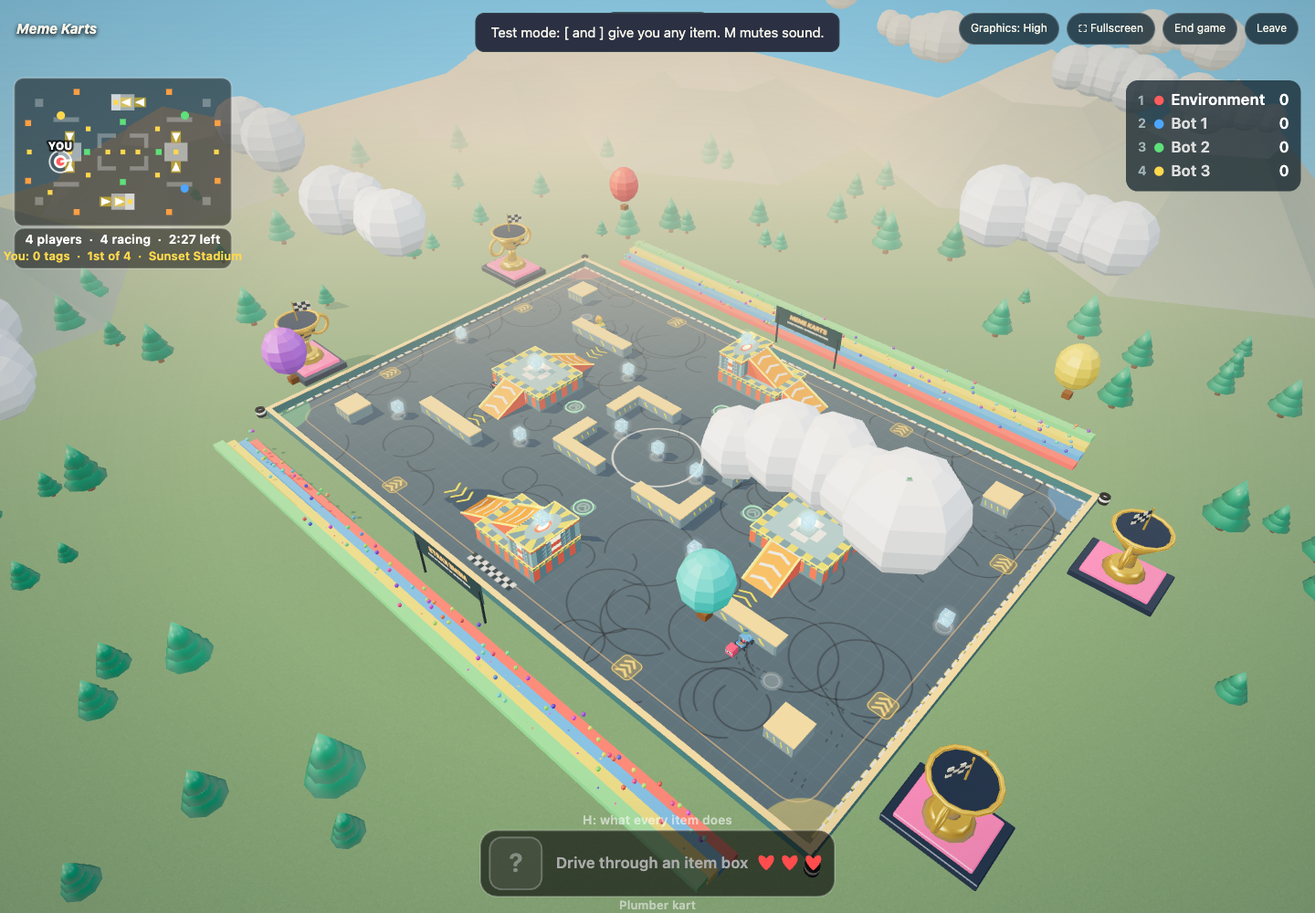
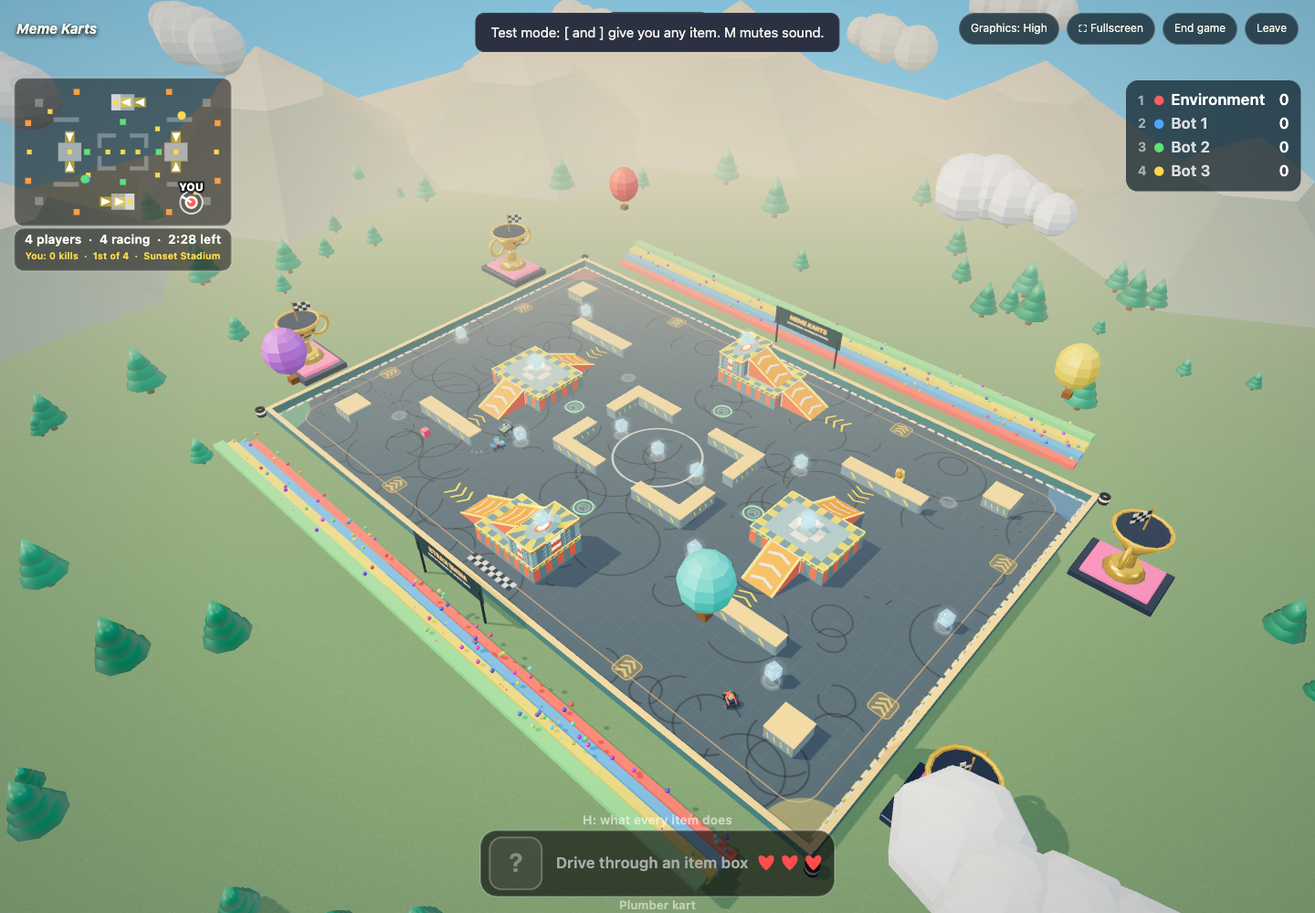
Settings in the Esc menu, clearer lobby, bigger menus on big screens, banana hurts, ramp seam fixed
- Esc menu in both games now has graphics and sound; the shooter's also has
  mouse sensitivity and field of view (window.FG_SETTINGS in gfx.js), and
  Settings (L) in the shooter uses the same panel.
- The lobby says plainly who the host is, what they do, that friends can join
  mid-game, and that the room ends if a peer-to-peer host closes the tab.
  Leaving as a host with friends present asks first.
- Lobby settings have a Reset to defaults button and list the defaults.
- Menu screens scale up on monitors 1600 px wide and over.
- A banana slip costs a heart (and counts as a kill for the owner).
- Minimap text in both games is centred in its box and shrinks to fit.
- Ramp side rails and corner posts no longer share the ramp's side plane,
  which flickered; ramp models are single-sided so their top end does not
  flicker against the deck wall.
- Peer-to-peer: friends are told at once when the host leaves; repeat names
  get a number; 16 player colours.

diff --git a/public/games/memekarts.js b/public/games/memekarts.js
@@ -27,7 +27,7 @@ registerGame('memekarts', (G) => {
   const WEAPON_INFO = {
     green: 'Fires straight ahead and bounces off walls.', triple: 'Three shells in a spread. They bounce off walls.', red: 'Homing shell. Chases the nearest kart.',
     blue: 'Flies over walls and hunts whoever has the most kills.', tnt: 'Drops behind you and explodes after 2 seconds.', bomb: 'Lobbed ahead. Blows up on contact or after a moment.',
-    pad: 'Placed under you. Launches any kart that drives over it.', egg: 'Three eggs. A hit turns a kart into a slow, helpless egg.', banana: 'Drops behind you. Karts that touch it spin out.',
+    pad: 'Placed under you. Launches any kart that drives over it.', egg: 'Three eggs. A hit turns a kart into a slow, helpless egg.', banana: 'Drops behind you. Karts that touch it spin out and lose a heart.',
     fake: 'Drops a fake item box. Whoever grabs it spins out.', fire: 'A quick burst of five bouncing fireballs.', gun: 'Sprays bullets ahead for two seconds.',
     mush: 'Speed boost. Ram other karts to hurt them.', star: 'Six seconds invincible and fast. Ramming wrecks karts.', boo: 'Untouchable for five seconds, and steals someone\'s item.',
     bolt: 'Shrinks and slows everyone else. May zap their items.', bill: 'Three seconds of autopilot rocket. Flattens karts in your path.', ink: 'Splats ink over everyone else\'s screen.',
@@ -48,7 +48,9 @@ registerGame('memekarts', (G) => {
     G.ui.innerHTML = `<div class="away-card"><h3>You stepped away</h3><p>You are still in this race. Nothing can hit you while you are away, and your kills are kept.</p>
       <div class="away-kart"><span style="background:${col}"></span><b>${VEHICLE_NAMES[k.v % 8]}</b></div>
       <div class="away-stats"><div><b>${k.kills}</b><small>kills</small></div><div><b>${rank}<small>/${order.length}</small></b><small>place</small></div><div><b>${Math.floor(s.t / 60)}:${String(s.t % 60).padStart(2, '0')}</b><small>left</small></div></div>
+      <h4 class="away-h">Settings</h4>${window.FG_SETTINGS ? window.FG_SETTINGS.html(false) : ''}
       <div class="away-btns"><button id="awayLeave">Leave the room</button><button id="awayBack" class="primary">Back to the race</button></div></div>`;
+    if (window.FG_SETTINGS) window.FG_SETTINGS.bind(G.ui);
     G.ui.querySelector('#awayBack').onclick = () => { away = 0; G.send({ type: 'away', on: 0 }); G.clearUI(); }; G.ui.querySelector('#awayLeave').onclick = () => { const q = document.querySelector('#quitBtn'); if (q) q.click(); };
   }
   function trigger(down) { if (away) return;
@@ -378,7 +380,7 @@ registerGame('memekarts', (G) => {
         const horiz = rp.dir === 'E' || rp.dir === 'W', len = horiz ? rp.w : rp.h, wid = horiz ? rp.h : rp.w, g = new THREE.Group();
         const [Z0, Z1] = window.MEMEKARTS_MAPS.rampZ(rp), RH = Z1 - Z0; /* this ramp's rise; a tower's second ramp starts on the first deck */
         const custom = asset(map.theme === 'neon' ? 'ramp_neon' : map.theme === 'canyon' ? 'ramp_canyon' : 'ramp', 60) || asset('ramp', 60); /* optional model: rises toward +X in Blender; stretched to the footprint */
-        if (custom) { const bb = new THREE.Box3().setFromObject(custom), sz = bb.getSize(new THREE.Vector3()); custom.scale.set(len / sz.x, RH / sz.y, wid / sz.z); custom.traverse((m) => { if (m.isMesh) m.material.side = THREE.DoubleSide; }); /* solid from every angle */
+        if (custom) { const bb = new THREE.Box3().setFromObject(custom), sz = bb.getSize(new THREE.Vector3()); custom.scale.set(len / sz.x, RH / sz.y, wid / sz.z); /* single-sided: the ramp's top end shares the deck wall's plane, and a double-sided end face flickered against it */
           custom.traverse((m) => { if (m.isMesh && /ink|dark|runway/i.test((m.material.name || '') + m.name)) m.material.color.set(map.theme === 'neon' ? '#ff3fd0' : '#ff8a1f'); }); /* the runway is painted a loud colour: a dark ramp reads as a floor marking */
           g.add(custom); }
         else {
@@ -396,8 +398,8 @@ registerGame('memekarts', (G) => {
         const dress = new THREE.Group(); /* decoration lives beside the ramp group so the ramp itself keeps its exact footprint */
         const hot = map.theme === 'neon' ? '#68efff' : '#ffd21f', tilt = Math.atan2(RH, len), slopeLen = Math.hypot(len, RH);
         for (const sd of [-1, 1]) {
-          const rail = box(slopeLen, 3.2, 3.2, glow(hot, 1.4), 0, RH / 2 + 2.2, sd * (wid / 2 - 1.6)); rail.rotation.z = tilt; rail.castShadow = false; dress.add(rail);
-          dress.add(box(3.2, RH, 3.2, M3('#f4f4f4'), len / 2 - 1.6, RH / 2, sd * (wid / 2 - 1.6)));
+          const rail = box(slopeLen, 3.2, 3.2, glow(hot, 1.4), 0, RH / 2 + 2.2, sd * (wid / 2 - 1.1)); /* rails and posts stand 0.5 proud of the ramp's side wall: flush with it they flickered */ rail.rotation.z = tilt; rail.castShadow = false; dress.add(rail);
+          dress.add(box(3.2, RH - 0.4, 3.2, M3('#f4f4f4'), len / 2 - 2.5, RH / 2 - 0.2, sd * (wid / 2 - 1.1))); /* corner posts: clear of the deck wall, the side wall and the deck top */
         }
         const lead = tex(256, 128, (c, cw, ch) => { c.clearRect(0, 0, cw, ch); c.strokeStyle = '#ffffff'; c.lineWidth = 16; c.lineCap = 'round'; c.lineJoin = 'round'; for (const x of [40, 110, 180]) { c.beginPath(); c.moveTo(x - 16, 22); c.lineTo(x + 22, 64); c.lineTo(x - 16, 106); c.stroke(); } });
         const runway = mesh(new THREE.PlaneGeometry(90, wid * 0.8), new THREE.MeshBasicMaterial({ map: lead, transparent: true, depthWrite: false, color: new THREE.Color(hot).multiplyScalar(1.5) }), -len / 2 - 50, 0.8, 0); runway.rotation.x = -Math.PI / 2; runway.castShadow = false;
@@ -852,11 +854,13 @@ registerGame('memekarts', (G) => {
     s.boxes.forEach((on, i) => { if (on) { ctx.fillStyle = '#ffd84d'; ctx.fillRect(mx + BOXES[i][0] * ms - 2, my + BOXES[i][1] * ms - 2, 4, 4); } });
     for (const e of s.ents) if (e.k === 'blue' || e.k === 'red') G.circle(mx + e.x * ms, my + e.y * ms, 2, e.k === 'blue' ? '#6ea0ff' : '#ff6a6a');
     for (const k of s.karts) { if (k.dead || k.aw || (k.ghost && k.id !== G.me)) continue; const p = G.player(k.id), x = mx + k.x * ms, y = my + k.y * ms; G.circle(x, y, k.id === G.me ? 4.5 : 3.5, p.color, k.id === G.me ? '#fff' : null); if (k.id === G.me) { ctx.beginPath(); ctx.moveTo(x, y); ctx.lineTo(x + Math.cos(k.a) * 10, y + Math.sin(k.a) * 10); ctx.strokeStyle = '#fff'; ctx.lineWidth = 2; ctx.stroke(); ctx.beginPath(); ctx.arc(x, y, 8 + Math.sin(time * 5) * 1.5, 0, 7); ctx.strokeStyle = 'rgba(255,255,255,.8)'; ctx.lineWidth = 1.5; ctx.stroke(); G.text('YOU', x, y - 13, { size: 9, weight: 800, color: '#fff' }); } }
-    { /* who is in, who is still racing, where you stand */
-      const total = s.karts.length, racing = s.karts.filter((k) => !k.dead).length, order = s.karts.slice().sort((a, b) => b.kills - a.kills), rank = order.findIndex((k) => k.id === G.me) + 1, iy = my + MH * ms + 16;
-      rr(mx - 4, iy - 10, MW * ms + 8, 34, 8, 'rgba(0,0,0,.5)', 'rgba(255,255,255,.2)');
-      G.text(`${total} players  ·  ${racing} racing  ·  ${Math.floor(s.t / 60)}:${String(s.t % 60).padStart(2, '0')} left`, mx + (MW * ms) / 2, iy, { size: 10.5, color: '#fff', stroke: false });
-      if (me) G.text(`You: ${me.kills} tags  ·  ${rank ? rank + (rank === 1 ? 'st' : rank === 2 ? 'nd' : rank === 3 ? 'rd' : 'th') + ' of ' + total : ''}  ·  ${map.name}`, mx + (MW * ms) / 2, iy + 14, { size: 10, color: '#ffd84d', stroke: false });
+    { /* who is in, who is still racing, where you stand: sized to fit inside the box, kart words not shooter words */
+      const total = s.karts.length, racing = s.karts.filter((k) => !k.dead && !k.aw).length, order = s.karts.slice().sort((a, b) => b.kills - a.kills), rank = order.findIndex((k) => k.id === G.me) + 1, iy = my + MH * ms + 16, bw = MW * ms + 8;
+      rr(mx - 4, iy - 10, bw, 36, 8, 'rgba(0,0,0,.5)', 'rgba(255,255,255,.2)');
+      const fit = (t, size) => { ctx.font = `700 ${size}px system-ui, sans-serif`; let sz = size; while (sz > 7 && ctx.measureText(t).width > bw - 12) { sz -= 0.5; ctx.font = `700 ${sz}px system-ui, sans-serif`; } return sz; };
+      const l1 = `${total} players  ·  ${racing} racing  ·  ${Math.floor(s.t / 60)}:${String(s.t % 60).padStart(2, '0')} left`;
+      G.text(l1, mx - 4 + bw / 2, iy, { size: fit(l1, 10.5), color: '#fff', stroke: false });
+      if (me) { const l2 = `You: ${me.kills} ${me.kills === 1 ? 'kill' : 'kills'}  ·  ${rank ? rank + (rank === 1 ? 'st' : rank === 2 ? 'nd' : rank === 3 ? 'rd' : 'th') + ' of ' + total : ''}  ·  ${map.name}`; G.text(l2, mx - 4 + bw / 2, iy + 14, { size: fit(l2, 10), color: '#ffd84d', stroke: false }); }
     }
     // item slot + hearts
     if (me) {

diff --git a/public/games/blasters.js b/public/games/blasters.js
@@ -5,7 +5,7 @@
 // BLENDER MODELS: .glb files in public/models/ named fps_* replace the placeholders built below. See fps3d.md.
 registerGame('blasters', (G) => {
   const B = window.BLASTERS, { WEAPONS, MELEE, LOADOUT, POWERS, PICKUP_INFO, P } = B;
-  const lockerBtn = document.createElement('button'); lockerBtn.className = 'small'; lockerBtn.id = 'lockerBtn'; lockerBtn.textContent = '⚙ Settings (L)'; lockerBtn.title = 'Mouse sensitivity and field of view';
+  const lockerBtn = document.createElement('button'); lockerBtn.className = 'small'; lockerBtn.id = 'lockerBtn'; lockerBtn.textContent = '⚙ Settings (L)'; lockerBtn.title = 'Graphics, sound, mouse sensitivity and field of view';
   lockerBtn.onclick = (e) => { e.stopPropagation(); setLocker(!locker); };
   const TEST_CAM = /[?&]bltest=1/.test(location.search); // window.__camOverride (tools/views.js) works only in test pages, never in a real match
   const onGfx = () => { if (T && T.applyGfx) T.applyGfx(); };
@@ -601,14 +601,13 @@ registerGame('blasters', (G) => {
   function drawLocker() {
     const col = G.player(G.me).color, lvl = levelOf(xp), nFig = unlocked();
     G.ui.innerHTML = `<div class="tbb-locker" style="--pc:${col}"><h3>Settings</h3><div style="color:#8b91a5;font-size:12px">Level ${lvl} &nbsp;•&nbsp; your figure, skin and starter blaster are picked before the game, on the home page or in the lobby</div>
-      <h4>Settings</h4><div class="tbb-set"><label>Mouse sensitivity <b id="tbbSensV">${sensMul.toFixed(2)}</b><input id="tbbSens" type="range" min="0.2" max="3" step="0.05" value="${sensMul}"></label><label>Field of view <b id="tbbFovV">${baseFov}</b><input id="tbbFov" type="range" min="60" max="105" step="1" value="${baseFov}"></label></div>
+      <h4>Settings</h4>${window.FG_SETTINGS ? window.FG_SETTINGS.html(true) : ''}
       <div class="tbb-foot"><span>The big blasters are only found on the map.</span><button id="tbbClose" class="primary">Done (L)</button></div></div>`;
     for (const b of G.ui.querySelectorAll('[data-fig]')) b.onclick = () => { const i = +b.dataset.fig; if (i >= unlocked()) return G.toast('Reach level ' + Math.max(2, (i - 1) * 2) + ' to unlock ' + CHAR_NAMES[i]); charIdx = i; lset('tbb_char', i); hello(); drawLocker(); if (T) T.preview(charIdx, skinIdx); };
     for (const b of G.ui.querySelectorAll('[data-lo]')) b.onclick = () => { loadout = +b.dataset.lo; lset('tbb_lo', loadout); hello(); drawLocker(); G.toast(loadout ? `You will start each life with the ${WEAPONS[loadout].name}` : 'You will start with just the Dart Blaster'); };
     for (const b of G.ui.querySelectorAll('[data-skin]')) b.onclick = () => { const i = +b.dataset.skin; if (!skinOpen(i)) return G.toast('Reach level ' + SKINS[i].lvl + ' to unlock ' + SKINS[i].name); skinIdx = i; lset('tbb_skin', i); hello(); drawLocker(); if (T) T.preview(charIdx, skinIdx); };
     G.ui.querySelector('#tbbClose').onclick = () => setLocker(false);
-    G.ui.querySelector('#tbbSens').oninput = (e) => { sensMul = +e.target.value; lset('tbb_sens', sensMul); G.ui.querySelector('#tbbSensV').textContent = sensMul.toFixed(2); };
-    G.ui.querySelector('#tbbFov').oninput = (e) => { baseFov = +e.target.value; lset('tbb_fov', baseFov); G.ui.querySelector('#tbbFovV').textContent = baseFov; };
+    if (window.FG_SETTINGS) window.FG_SETTINGS.bind(G.ui, { sens: (v) => { sensMul = v; }, fov: (v) => { baseFov = v; } });
   }
   function setLocker(on) {
     if (on === locker || (on && over)) return; locker = on;
@@ -629,7 +628,9 @@ registerGame('blasters', (G) => {
     G.ui.innerHTML = `<div class="tbb-locker" style="--pc:${G.player(G.me).color};max-width:440px;left:50%;transform:translate(-50%,-50%);top:50%"><h3>You stepped away</h3><div style="color:#8b91a5;font-size:13px">You are still in this match. Nobody can tag you while you are away, and your tags are kept.</div>
       <h4>Your toy</h4><div style="font-size:20px;font-weight:900">${CHAR_NAMES[charIdx]} <span style="color:#d9fa78">· ${SKINS[skinIdx].name}</span></div>
       <h4>This match</h4><div style="display:flex;gap:22px;font-size:15px"><div><b style="font-size:28px">${st ? st.k : 0}</b><br><small>tags</small></div><div><b style="font-size:28px">${rank || '-'}<small style="font-size:14px">/${order.length}</small></b><br><small>place</small></div><div><b style="font-size:28px">${st ? st.sc : 0}</b><br><small>score</small></div><div><b style="font-size:28px">${Math.floor(s.t / 60)}:${String(s.t % 60).padStart(2, '0')}</b><br><small>left</small></div></div>
+      <h4>Settings</h4>${window.FG_SETTINGS ? window.FG_SETTINGS.html(true) : ''}
       <div class="tbb-foot"><button id="awayLeave">Leave the room</button><button id="awayBack" class="primary">Back to the match</button></div></div>`;
+    if (window.FG_SETTINGS) window.FG_SETTINGS.bind(G.ui, { sens: (v) => { sensMul = v; }, fov: (v) => { baseFov = v; } });
     G.ui.querySelector('#awayBack').onclick = () => backFromAway(); G.ui.querySelector('#awayLeave').onclick = () => { const q = document.querySelector('#quitBtn'); if (q) q.click(); };
     if (T && T.ready) T.preview(charIdx, skinIdx);
   }
@@ -802,8 +803,10 @@ registerGame('blasters', (G) => {
       // the numbers: who is in, who is still standing, where you are in the race
       const total = s.ps.length, alive = s.ps.filter((p) => !p.dead).length, order = s.ps.slice().sort((a, b) => b.k - a.k || b.sc - a.sc), rank = order.findIndex((p) => p.id === G.me) + 1, iy = my + mw + 18;
       rr(mx - 4, iy - 11, mw + 44, 36, 8, 'rgba(0,0,0,.55)', 'rgba(255,255,255,.2)');
-      txt(`${total} players  ·  ${alive} standing`, mx + mw / 2 + 18, iy, { size: 11, weight: 700, color: '#fff', stroke: false });
-      txt(s.tm ? `Red ${s.tk[0]}  ·  Blue ${s.tk[1]}  ·  ${MAP.name}` : `You ${st ? st.k : 0} tags  ·  ${rank ? rank + (rank === 1 ? 'st' : rank === 2 ? 'nd' : rank === 3 ? 'rd' : 'th') : '-'} of ${total}  ·  ${MAP.name}`, mx + mw / 2, iy + 14, { size: 10, color: '#ffd84d', stroke: false });
+      const bw = mw + 44, cx = mx - 4 + bw / 2, fit = (t, size, w) => { ctx.font = `${w} ${size}px system-ui, sans-serif`; let sz = size; while (sz > 7 && ctx.measureText(t).width > bw - 12) { sz -= 0.5; ctx.font = `${w} ${sz}px system-ui, sans-serif`; } return sz; }; /* both lines centred in the box and shrunk to fit it */
+      const l1 = `${total} players  ·  ${alive} standing`, l2 = s.tm ? `Red ${s.tk[0]}  ·  Blue ${s.tk[1]}  ·  ${MAP.name}` : `You: ${st ? st.k : 0} tags  ·  ${rank ? rank + (rank === 1 ? 'st' : rank === 2 ? 'nd' : rank === 3 ? 'rd' : 'th') : '-'} of ${total}  ·  ${MAP.name}`;
+      txt(l1, cx, iy, { size: fit(l1, 11, 700), weight: 700, color: '#fff', stroke: false });
+      txt(l2, cx, iy + 14, { size: fit(l2, 10, 400), color: '#ffd84d', stroke: false });
     }
   }
   let deathBy = '';

diff --git a/public/app.js b/public/app.js
@@ -116,8 +116,8 @@
   }
 
   // ---- lobby ---------------------------------------------------------------
-  $('#leaveBtn').onclick = () => { socket.emit('leave'); goHome(); };
-  $('#quitBtn').onclick = () => { if (confirm('Leave this room? The game carries on without you.')) { socket.emit('leave'); goHome(); } };
+  $('#leaveBtn').onclick = () => { if (socket.hosting && room && room.players.some((p) => !p.bot && p.id !== myId) && !confirm('Leave? You are the host, so the room closes for everyone.')) return; socket.emit('leave'); goHome(); }; /* a peer-to-peer host leaving ends the room: say so first */
+  $('#quitBtn').onclick = () => { if (confirm(socket.hosting ? 'Leave? You are the host, so the room closes for everyone.' : 'Leave this room? The game carries on without you, and you can come back with the invite link.')) { socket.emit('leave'); goHome(); } };
   $('#copyBtn').onclick = () => { navigator.clipboard?.writeText(`${location.origin}/?room=${room.code}`); toast('Invite link copied'); };
   $('#copyBig').onclick = () => { $('#copyBtn').onclick(); $('#copyBig').textContent = 'Copied ✓'; setTimeout(() => { $('#copyBig').textContent = 'Copy link'; }, 1600); };
   $('#shareBig').onclick = () => { const url = `${location.origin}/?room=${room.code}`; if (navigator.share) navigator.share({ title: 'Join my game', text: `Join my game, room ${room.code}`, url }).catch(() => {}); else $('#copyBig').onclick(); };
@@ -161,6 +161,7 @@
   const setSound = (on) => { LS.set('mk_mute', on ? '0' : '1'); drawSettings(); window.dispatchEvent(new CustomEvent('fg-sound', { detail: { muted: !on } })); }; /* the games listen and apply it at once */
   $('#sndOn').onclick = () => setSound(true); $('#sndOff').onclick = () => setSound(false);
   $('#lsSens').oninput = (e) => { LS.set('tbb_sens', e.target.value); drawSettings(); }; $('#lsFov').oninput = (e) => { LS.set('tbb_fov', e.target.value); drawSettings(); };
+  $('#lsReset').onclick = () => { for (const k of ['fg_gfx', 'tbb_sens', 'tbb_fov']) { try { localStorage.removeItem(k); } catch (e) { /* ignore */ } } setSound(true); if (window.FG_GFX) window.FG_GFX.set(window.matchMedia('(pointer:coarse)').matches ? 'medium' : 'high'); drawSettings(); toast('Settings back to the defaults'); };
   drawSettings();
   function renderLobby() {
     $('#roomCode').textContent = room.code; $('#bigCode').textContent = room.code; $('#inviteLink').textContent = `${location.host}/?room=${room.code}`;
@@ -176,7 +177,12 @@
     $('#mapPicker').innerHTML = blGame ? window.BLASTERS.MAPS.map(m => blMapCard(m, m.id === room.blastersMap, !isHost)).join('') : window.MEMEKARTS_MAPS.map(m => window.kartMapCard(m, m.id === room.mapId, !isHost)).join('');
     for (const el of $('#mapPicker').querySelectorAll('[data-map]')) el.onclick = () => socket.emit('pickMap', { mapId: el.dataset.map });
     $('#playerList').innerHTML = room.players.map((p) => `<li><span class="dot" style="background:${p.color}"></span>${esc(p.name)}${p.bot ? '<span class="botTag">BOT</span>' : ''}${p.id === room.hostId ? ' <span class="hint">(host)</span>' : ''}<span style="margin-left:auto" class="hint">${p.score}</span></li>`).join('');
-    $('#hostHint').textContent = (isHost ? 'You are the host: pick a game and press Start.' : 'Waiting for the host to start a game.') + (socket.hosting ? ' The room runs in this tab, so keep it open: closing or refreshing it ends the room for everyone.' : '');
+    { const hostName = (room.players.find((p) => p.id === room.hostId) || {}).name || 'the host', p2p = !!socket.p2p, hosting = !!socket.hosting;
+      const lines = isHost ? ['You are the host. Pick a game and a map, then press Start.', 'Friends join with the link or the code on the left, even after the game has started.']
+        : [`${hostName} is the host. They pick the game and press Start.`, 'Set your graphics and sound below while you wait.'];
+      if (hosting) lines.push('Keep this tab open: the room runs in it. If you close or refresh it, the room ends for everyone.');
+      else if (p2p) lines.push(`If ${hostName} closes their tab, the room ends. You can refresh, or step away with Esc during a game, without losing your place.`);
+      $('#hostHint').innerHTML = lines.map((l, i) => `<span class="hint-line${i === 2 ? ' warn' : ''}">${esc(l)}</span>`).join(''); }
     $('#gameGrid').innerHTML = gameDefs.map((g) => `<div class="gcard ${g.id === room.gameId ? 'sel' : ''}" data-id="${g.id}"><b>${esc(g.name)}</b><small>${esc(g.tagline)}</small><br><small>${g.min}–${g.max} players</small></div>`).join('');
     for (const el of document.querySelectorAll('.gcard')) el.onclick = () => isHost && socket.emit('pick', { gameId: el.dataset.id });
     const def = gameDefs.find((g) => g.id === room.gameId);

diff --git a/public/gfx.js b/public/gfx.js
@@ -19,6 +19,24 @@
     set(v) { if (!LEVELS[v] || v === level) return; level = v; try { localStorage.setItem('fg_gfx', v); } catch (e) { /* ignore */ } window.dispatchEvent(new CustomEvent('fg-gfx', { detail: LEVELS[v] })); syncUI(); },
     next() { this.set(ORDER[(ORDER.indexOf(level) + 1) % ORDER.length]); },
   };
+  // One settings panel for the in-game Esc menu and the shooter's Settings (L): graphics, sound and, for the shooter, mouse and view.
+  // Same storage keys as the lobby, so a change anywhere is the same setting everywhere.
+  const lsGet = (k, d) => { try { const v = localStorage.getItem(k); return v === null ? d : v; } catch (e) { return d; } }, lsSet = (k, v) => { try { localStorage.setItem(k, String(v)); } catch (e) { /* storage blocked */ } };
+  window.FG_SETTINGS = {
+    html(aim) {
+      const muted = lsGet('mk_mute', '0') === '1', sens = Math.max(0.2, Math.min(3, +lsGet('tbb_sens', 1) || 1)), fov = Math.max(60, Math.min(105, +lsGet('tbb_fov', 78) || 78));
+      return `<div class="fg-set"><div class="fg-set-row"><span>Graphics</span>${ORDER.map((v) => `<button type="button" class="chip${v === level ? ' sel' : ''}" data-set-gfx="${v}">${LEVELS[v].name}</button>`).join('')}</div>
+        <div class="fg-set-row"><span>Sound</span><button type="button" class="chip${muted ? '' : ' sel'}" data-set-snd="1">On</button><button type="button" class="chip${muted ? ' sel' : ''}" data-set-snd="0">Off</button></div>
+        ${aim ? `<label class="fg-set-slider">Mouse sensitivity <b data-set-v="sens">${sens.toFixed(2)}</b><input type="range" data-set="sens" min="0.2" max="3" step="0.05" value="${sens}"></label>
+        <label class="fg-set-slider">Field of view <b data-set-v="fov">${fov}</b><input type="range" data-set="fov" min="60" max="105" step="1" value="${fov}"></label>` : ''}<small>Pick Low graphics if the game lags. Saved in this browser.</small></div>`;
+    },
+    bind(root, hooks = {}) {
+      const redraw = () => { for (const b of root.querySelectorAll('[data-set-gfx]')) b.classList.toggle('sel', b.dataset.setGfx === level); const m = lsGet('mk_mute', '0') === '1'; for (const b of root.querySelectorAll('[data-set-snd]')) b.classList.toggle('sel', (b.dataset.setSnd === '1') !== m); };
+      for (const b of root.querySelectorAll('[data-set-gfx]')) b.onclick = (e) => { e.stopPropagation(); window.FG_GFX.set(b.dataset.setGfx); redraw(); };
+      for (const b of root.querySelectorAll('[data-set-snd]')) b.onclick = (e) => { e.stopPropagation(); const on = b.dataset.setSnd === '1'; lsSet('mk_mute', on ? '0' : '1'); window.dispatchEvent(new CustomEvent('fg-sound', { detail: { muted: !on } })); redraw(); };
+      for (const r of root.querySelectorAll('input[data-set]')) r.oninput = () => { const k = r.dataset.set, v = +r.value; lsSet(k === 'sens' ? 'tbb_sens' : 'tbb_fov', v); const out = root.querySelector(`[data-set-v="${k}"]`); if (out) out.textContent = k === 'sens' ? v.toFixed(2) : v; if (hooks[k]) hooks[k](v); };
+    },
+  };
   function syncUI() {
     for (const b of document.querySelectorAll('[data-gfx]')) { const on = b.dataset.gfx === level; b.classList.toggle('sel', on); b.setAttribute('aria-pressed', on); }
     const btn = document.querySelector('#gfxBtn'); if (btn) btn.textContent = 'Graphics: ' + LEVELS[level].name;

diff --git a/public/style.css b/public/style.css
@@ -121,6 +121,7 @@ button:focus-visible,a:focus-visible,summary:focus-visible { outline:3px solid #
 .lobby-settings label { font-size:12px;font-weight:800;color:#cfe;display:flex;justify-content:space-between;margin-top:4px; }.lobby-settings label b { color:#d9fa78; }
 .lobby-settings small { color:#93aaa9;font-size:11px; }.lobby-settings .gfx-pick { margin-top:0; }.lobby-settings .gfx-pick button { padding:6px 12px;font-size:12px; }
 .lobby-settings input[type=range] { width:100%;accent-color:#d9fa78; }
+.hint-line { display:block;margin-top:6px;line-height:1.4; }.hint-line.warn { color:#ffd84d;font-weight:700; }
 .toy-pick { display:none; }
 #home.blasters .toy-pick { display:grid;gap:8px;position:absolute;left:50%;bottom:6%;transform:translateX(-50%);z-index:3;background:#0d1b22d9;border:1px solid #ffffff2a;border-radius:16px;padding:12px 14px;backdrop-filter:blur(10px);width:min(420px,92%); }
 #home.blasters #heroBadge { display:none; }
@@ -177,3 +178,21 @@ body.racing { overflow:hidden; }.kart-fullscreen { position:fixed;inset:0;min-he
 #arcade summary { cursor:pointer; }
 @media(max-width:900px){ .toy-grid { grid-template-columns:1fr 1fr; } }
 @media(max-width:600px){ .game-pick { grid-template-columns:1fr; gap:10px; margin-top:16px; padding:0 6%; } .game-pick button span { display:none; } #home.blasters .hero h1 { font-size:62px; letter-spacing:-3px; } .toy-grid { grid-template-columns:1fr; } }
+/* Big screens: the menus were laid out for a laptop and looked tiny on a monitor. Scale the menu screens up with the window
+   (the games scale their own HUD, so #game is left alone). */
+@media (min-width: 1600px) { #home, #invite, #lobby, #results, #testBox { zoom: 1.15; } }
+@media (min-width: 1900px) { #home, #invite, #lobby, #results, #testBox { zoom: 1.3; } }
+@media (min-width: 2300px) { #home, #invite, #lobby, #results, #testBox { zoom: 1.5; } }
+@media (min-width: 2800px) { #home, #invite, #lobby, #results, #testBox { zoom: 1.75; } }
+@media (min-width: 3400px) { #home, #invite, #lobby, #results, #testBox { zoom: 2.1; } }
+
+/* in-game settings (Esc menu in both games, Settings (L) in the shooter) */
+.fg-set { display:grid;gap:10px;text-align:left; }
+.fg-set-row { display:flex;align-items:center;gap:8px;flex-wrap:wrap; }
+.fg-set-row > span { min-width:74px;font-weight:800;font-size:13px;color:#d9fa78; }
+.fg-set .chip { padding:7px 14px;border-radius:999px;border:1px solid #ffffff40;background:#ffffff10;color:#fff;font-weight:700;font-size:13px;cursor:pointer; }
+.fg-set .chip.sel { background:#d9fa78;color:#111;border-color:#d9fa78; }
+.fg-set-slider { display:grid;grid-template-columns:1fr auto;gap:4px 10px;font-size:13px;font-weight:700; }
+.fg-set-slider b { color:#d9fa78; }.fg-set-slider input { grid-column:1 / -1;width:100%; }
+.fg-set small { color:#93aaa9;font-size:12px; }
+.away-h { margin:6px 0 -4px;font-size:14px;color:#fff; }

diff --git a/tools/toy.js b/tools/toy.js
@@ -20,8 +20,8 @@ let pass = 0, fail = 0; const check = (n, ok, x = '') => { ok ? pass++ : fail++;
   const me = await page.evaluate(() => new Promise((res) => window.G.socket.once('g:state', (s) => { const p = s.ps.find((q) => q.id === window.G.me); res({ ch: p.ch, sk: p.sk, own: p.own }); })));
   check('the game uses them: the server has Robot in Gold for everyone', me.ch === 3 && me.sk === 6, JSON.stringify(me));
   check('...and the player starts holding the Burst Blaster too', (me.own & (1 << 5)) !== 0);
-  await page.keyboard.press('l'); await sleep(400); const lockerHas = await page.evaluate(() => ({ figs: document.querySelectorAll('[data-fig]').length, skins: document.querySelectorAll('[data-skin]').length, sens: !!document.querySelector('#tbbSens') }));
-  check('in the game, L opens settings only: no figure or skin changes mid-game', lockerHas.figs === 0 && lockerHas.skins === 0 && lockerHas.sens, JSON.stringify(lockerHas));
+  await page.keyboard.press('l'); await sleep(400); const lockerHas = await page.evaluate(() => ({ figs: document.querySelectorAll('[data-fig]').length, skins: document.querySelectorAll('[data-skin]').length, sens: !!document.querySelector('input[data-set="sens"]'), gfx: document.querySelectorAll('[data-set-gfx]').length }));
+  check('in the game, L opens settings only: no figure or skin changes mid-game', lockerHas.figs === 0 && lockerHas.skins === 0 && lockerHas.sens && lockerHas.gfx === 3, JSON.stringify(lockerHas));
   check('no page errors', errors.length === 0, errors.slice(0, 2).join(' | '));
   console.log(`\n${pass} passed, ${fail} failed`); await b.close(); process.exit(fail ? 1 : 0);
 })().catch((e) => { console.error('TEST CRASHED:', e.message.split('\n')[0]); process.exit(1); });

diff --git a/tools/away.js b/tools/away.js
@@ -23,6 +23,12 @@ let pass = 0, fail = 0; const check = (n, ok, x = '') => { ok ? pass++ : fail++;
     check(`${game}: after 2 s the away screen shows`, !!(await p.$('#awayBack')));
     const awayState = await me(); check(`${game}: the server marks you away and keeps your score`, awayState.aw && awayState.k === before.k, JSON.stringify(awayState));
     await p.screenshot({ path: path.join(__dirname, 'shots', `away_${game}.png`) });
+    // the Esc menu has the settings: graphics and sound change right there, mid-match
+    const g0 = await p.evaluate(() => window.FG_GFX.level); await p.click('[data-set-gfx="low"]'); await p.click('[data-set-snd="0"]'); await sleep(300);
+    const set1 = await p.evaluate(() => ({ gfx: window.FG_GFX.level, mute: localStorage.getItem('mk_mute'), sel: document.querySelector('[data-set-gfx="low"]').classList.contains('sel'), aim: !!document.querySelector('input[data-set="sens"]') }));
+    check(`${game}: the Esc menu changes graphics and sound mid-match`, set1.gfx === 'low' && set1.mute === '1' && set1.sel, `was ${g0}, now ${JSON.stringify(set1)}`);
+    check(`${game}: ...with mouse and view sliders only in the shooter`, set1.aim === (game === 'blasters'));
+    await p.click(`[data-set-gfx="${g0}"]`); await p.click('[data-set-snd="1"]');
     await sleep(3000); check(`${game}: still in the same match after 3 s away`, await p.evaluate(() => !document.querySelector('#game').classList.contains('hidden')));
     await p.click('#awayBack'); await sleep(1500); const back = await me(); check(`${game}: Back puts you into the same match with your score`, !back.aw && back.k === before.k && !(await p.$('#awayBack')), JSON.stringify(back));
     await p.context().close();

diff --git a/public/index.html b/public/index.html
@@ -82,7 +82,8 @@
         <label>Sound</label><div class="gfx-pick"><button id="sndOn" data-snd="on">On</button><button id="sndOff" data-snd="off">Off</button></div>
         <label>Mouse sensitivity <b id="lsSensV">1.00</b></label><input id="lsSens" type="range" min="0.2" max="3" step="0.05">
         <label>Field of view <b id="lsFovV">78</b></label><input id="lsFov" type="range" min="60" max="105" step="1">
-        <small>Saved in this browser. Mouse and view apply to Toy Box Blasters.</small></div>
+        <small>Saved in this browser. Mouse and view apply to Toy Box Blasters.</small>
+        <button id="lsReset" class="small">Reset to defaults</button><small>Defaults: High graphics (Medium on phones), sound on, sensitivity 1.00, field of view 78.</small></div>
 </aside>
     <main>
       <div id="gameSwitch" class="game-pick in-lobby"><button data-game="memekarts"><small>KART BATTLE</small><b>Meme Karts</b></button><button data-game="blasters"><small>FIRST-PERSON SHOOTER</small><b>Toy Box Blasters</b></button></div>

diff --git a/tools/kart-items-check.js b/tools/kart-items-check.js
@@ -52,6 +52,7 @@ reset(); place('b', 460, 380, 0); tick(1 / 30); fire('a', 'tnt'); tick(1); ok('T
 reset(); place('b', 400, 380, 0); tick(1 / 30); fire('a', 'banana'); n = events.length; ctl('b', { up: true }); tick(1.5);
 ok('Banana: a kart that drives into it spins out', since(n).some((e) => e.type === 'slip' && e.id === 'b'));
 ok('Banana: the owner does not slip on their own banana straight away', !since(n).some((e) => e.type === 'slip' && e.id === 'a'));
+ok('Banana: the slip costs that kart a heart', K('b').hp === 2, 'hp=' + K('b').hp);
 // fake item box: looks like a box; touching it spins you and eats your item
 reset(); place('b', 400, 380, 0); tick(1 / 30); game.onInput('b', { type: 'give', weapon: 'green' }); fire('a', 'fake'); n = events.length; ctl('b', { up: true }); tick(1.5);
 ok('Fake box: the kart that touches it spins out', since(n).some((e) => e.type === 'fakebox' && e.id === 'b'));

diff --git a/server/games/memekarts.js b/server/games/memekarts.js
@@ -175,7 +175,7 @@ const KINDS = {
       for (const k of g.karts.values()) {
         if (k.dead || k.air) continue;
         if (k.id === e.owner && e.age < 0.6) continue;
-        if (Math.hypot(k.x - e.x, k.y - e.y) < 26 && Math.abs(k.el - (e.el || 0)) < 24) { k.spin = 1.2; k.vx = 0; k.vy = 0; g.api.emit('g:event', { type: 'slip', id: k.id }); return false; }
+        if (Math.hypot(k.x - e.x, k.y - e.y) < 26 && Math.abs(k.el - (e.el || 0)) < 24) { k.spin = 1.2; k.vx = 0; k.vy = 0; g.api.emit('g:event', { type: 'slip', id: k.id }); g.damage(k, 1, e.owner === k.id ? null : e.owner, 'Banana'); return false; } /* a slip costs a heart */
       }
       return true;
     },

diff --git a/CLAUDE.md b/CLAUDE.md
@@ -43,6 +43,7 @@ Browser party games for friends on a call. Node + Express + Socket.IO server, va
 - Reference implementation: `server/games/sumo.js` + `public/games/sumo.js`.
 - Toy Box Blasters (`blasters`) is a first-person shooter and the one game that is NOT fully server-authoritative: each client simulates its own movement with the shared physics and reports it (`{type:'p'}`), and reports its own hitscan hits (`{type:'fire', hits}`); the server enforces fire rate, ammo, range, damage, pickups, rockets, scoring. Maps, physics, rays and the weapon table live in `public/games/blasters.shared.js`. Three maps (`MAPS`: `fort` Fort Cardboard, `towers` Block Towers, `cove` Pirate Cove), built by `build(id, ...)`; every physics/ray function takes the map as its LAST argument (`stepPlayer(p, inp, dt, mul, map)`, `overlap(x, y, z, map)`, `rayMap(..., max, map)`, `los(..., map)`), defaulting to `MAP` (fort). The room's map comes from `api.memory.blastersMap` (lobby `pickMap`), is sent in every snapshot as `s.map`, and client/bots read it from there. Team mode: lobby `pickMode` (`ffa`/`teams`) -> `api.memory.blastersMode`; snapshot `tm`, per-player `tm`, team tags `tk`; no friendly fire; Red spawns north (z<0), Blue south; max 16 players. `tools/solo.js`/`multi.js`/`blasters-shots.js` take `MAP=` and `MODE=teams`. Codex's arena model is `fps_arena.glb` (fort only) or `fps_arena_<map>.glb` (UMD: `require` on the server and bots, `window.BLASTERS` in the browser). Bots run the same physics in `server/bots.js`. Models: `fps_*.glb` in `public/models/` (figures fitted by their `head_core` mesh, blasters used at authored size with the grip-bottom origin, `fps_arena.glb` replaces the plain floor and boxes). Test hooks `__bl` / `__blAim` exist only with `?bltest=1`. The first-person blaster is a child of the camera on render layer 1, drawn in a second pass (Codex's `art/blasters/check-assets.mjs` relies on it being under the camera). The map also has `ramps` (true slopes; a ramp ending in mid-air is a launch ramp), `teles` (teleporter pairs) and `train` (server-simulated hazard along z = 0); skins (`sk`) restyle each figure's `Paint` material. `node tools/blasters-map-check.js` tests the map and movement physics without a browser. Graphics brief: `fps3d.md`; `node tools/blasters-map.js` exports the collision boxes for artists.
 - Meme Karts maps are data in `public/memekarts-maps.js` (per-map `w`/`h`, obstacles, boxes, spawns, pads, portals, zones, movers). `node tools/mapcheck.js` validates them. The renderer uses `OX`/`OZ` world offsets, never literal 450/300.
+- In-game settings: `window.FG_SETTINGS.html(aim)` / `.bind(root, {sens, fov})` in `public/gfx.js` draw graphics, sound and (shooter) mouse/view controls. Both games' Esc away menus and the shooter's Settings (L) use it; same storage keys as the lobby (`fg_gfx`, `mk_mute`, `tbb_sens`, `tbb_fov`). `node tools/away.js` checks it. Menu screens zoom up on wide monitors (`zoom` media queries at the end of `public/style.css`).
 - Games listed in `FULL_WINDOW` in `public/app.js` fill the whole window and manage the canvas size themselves.
 - The site revolves around two primary games, Meme Karts and Toy Box Blasters. `public/home.js` drives the home page's two-game picker (`window.selectedGame`); the lobby has the same switch (`#gameSwitch`); the other 13 games live under "More games". `node tools/home.js` checks all of it.
 - Meme Karts has real height: `decks` (raised blocks, `DECK_Z` = 48 high, or `z: TOWER_Z` = 100 for a second tier stacked on a deck) and `ramps` (slopes with optional `z0`/`z1`; a tower's second ramp runs 48 -> 100 on top of the first deck). Every map has one sky tower (two-stage climb to a summit box). A wall is a rise steeper than `GRADE` (0.72 per unit travelled), so taller ramps climb at any speed. `maps.deckZ(d)` / `maps.rampZ(r)` give heights; `art/check-environment.mjs` reads them too. All of it lives in `public/memekarts-maps.js`, with `maps.surface(map, x, y)` as the one ground-height function used by server, bots and renderer. Karts and items carry `el` (elevation); a drop over 10 is a fall, and things only interact on the same level. `node tools/kart-height.js` (rules) and `node tools/kart-ramp.js <map>` (browser) check it. Jump pads still launch karts through the air. The Cream pie (`pie`) is the one held item: the client charges while SPACE/mouse is held (`trigger()`), sends `{type:'fire', charge}` on release, and `T.aim()` draws the arc; the server item gets `fire(g, k, charge)`. Spawns in both games pick randomly among the farthest spots. Attacking items include the Laser (instant beam, first kart in line) and the Boomerang (out and back, hits each kart once). Ramp lead-in arrows are only drawn on flat clear ground at the ramp foot. Blasters mechanics beyond shooting: crouch/slide (shared physics), aim-down-sights (per-weapon `ads`), bursts, lobbed projectiles (`gravity`), `MELEE` foam sword. `node tools/blasters-rules.js` checks the server rules.
